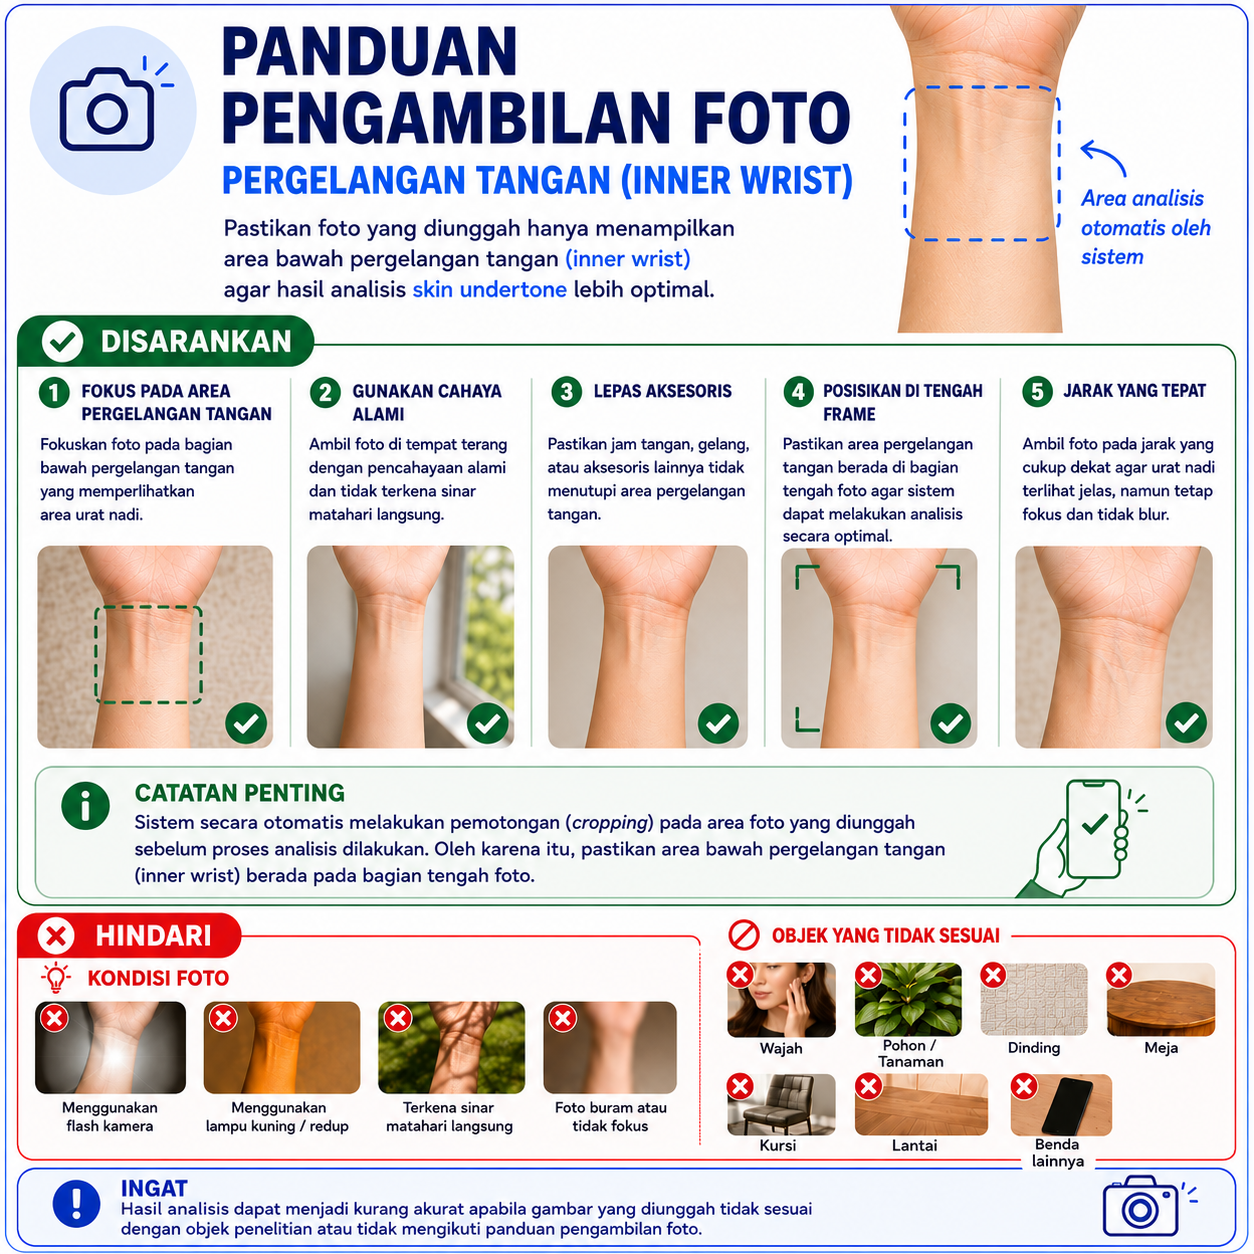
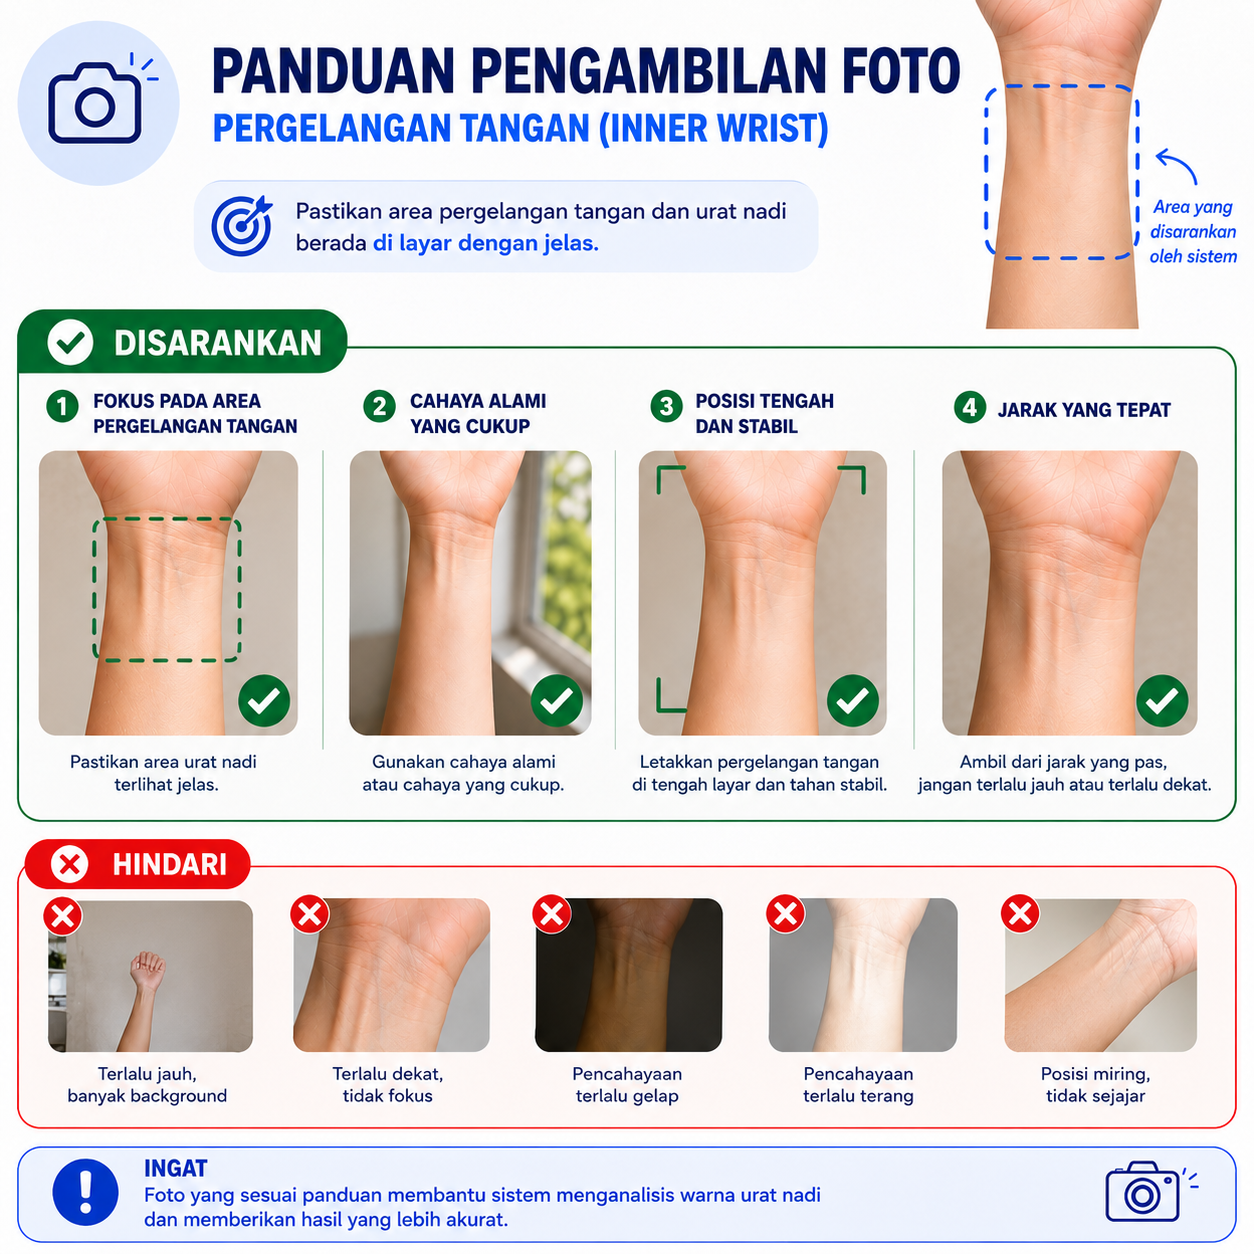
Update gambar Panduan

diff --git a/model_utils.py b/model_utils.py
@@ -55,6 +55,9 @@ def validate_wrist_image(img):
     
     if skin_ratio < 0.15: 
         return False, "Tidak terdeteksi warna kulit manusia."
+    
+    if skin_ratio < 0.30:
+        return False, "Dekatkan area pergelangan tangan ke kamera."
 
     return True, "Lolos"
 

diff --git a/app.py b/app.py
@@ -65,7 +65,7 @@ if st.session_state.get("invalid", False):
 @st.dialog("Panduan Pengambilan Foto")
 def tampilkan_popup_panduan():
     st.image(
-        "assets/panduan.png", 
+        "assets/Panduan.png", 
         use_container_width=True
     )
     st.caption("Pastikan Anda mengikuti panduan di atas agar hasil analisis akurat.")